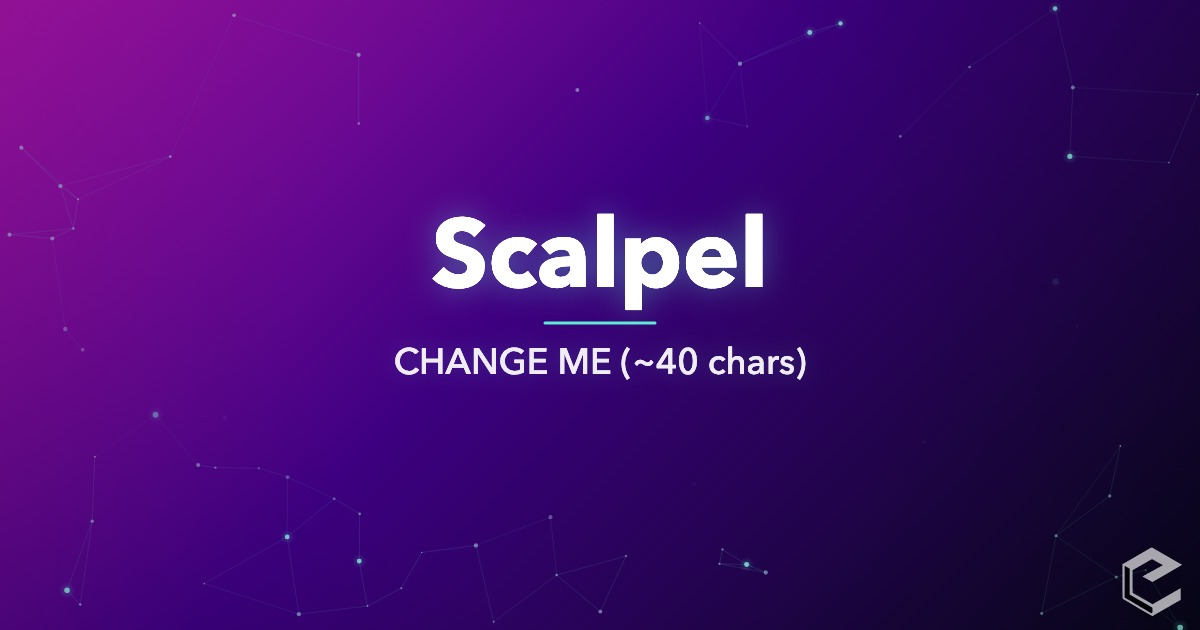
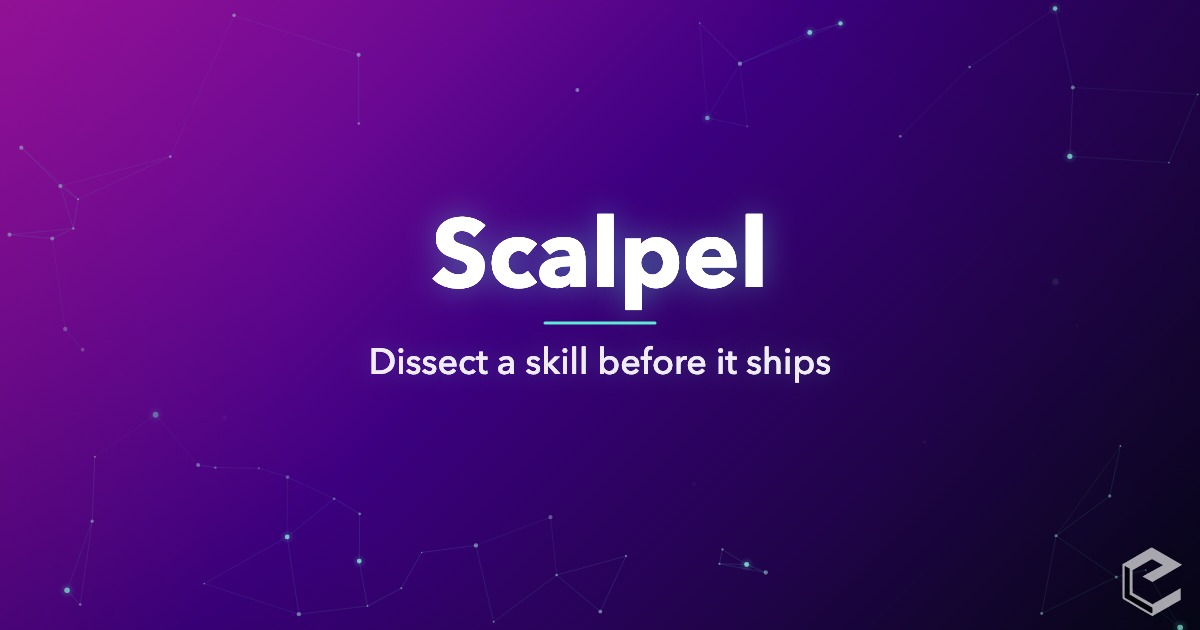
fix(og): scalpel shipped a preview reading CHANGE ME
The card's subtitle in js/state.js was never filled in after the scaffold, so
the generated og-preview.jpg said 'CHANGE ME (~40 chars)' under the title.
scalpel.neorgon.com does not resolve yet, so it was never served, but the file
was already sitting in the project repo waiting to be published.

Changed region(s): [[0.3083, 0.5429, 0.7092, 0.6032]]

diff --git a/js/state.js b/js/state.js
@@ -6,7 +6,7 @@ export const sites = [
   { id: 'dispatch', title: 'Dispatch', subtitle: 'Fleet news, approved at the desk', accent: '#3b82f6', domain: 'dispatch.neorgon.com' },
   { id: 'gamme', title: 'Gamme', subtitle: 'Game patterns, and the drills that prove them', accent: '#a855f7', domain: 'gamme.neorgon.com' },
   { id: 'enjeu', title: 'Enjeu', subtitle: 'Bet your life cards. Keep enough to guard.', accent: '#eab308', domain: 'enjeu.neorgon.com' },
-  { id: 'scalpel', title: 'Scalpel', subtitle: 'CHANGE ME (~40 chars)', accent: '#5eead4', domain: 'scalpel.neorgon.com' },
+  { id: 'scalpel', title: 'Scalpel', subtitle: 'Dissect a skill before it ships', accent: '#5eead4', domain: 'scalpel.neorgon.com' },
   { id: 'pixeldoll', title: 'Pixeldoll', subtitle: 'Pixel characters for every Neorgon tool', accent: '#ec4899', domain: 'pixeldoll.neorgon.com' },
   { id: 'floorplan', title: 'Floorplan', subtitle: 'Team maps with rooms and shared spaces', accent: '#0369a1', domain: 'floorplan.neorgon.com' },
   { id: 'mosaic', title: 'Mosaic', subtitle: 'Change the layout, keep the photos', accent: '#f43f5e', domain: 'mosaic.neorgon.com' },
